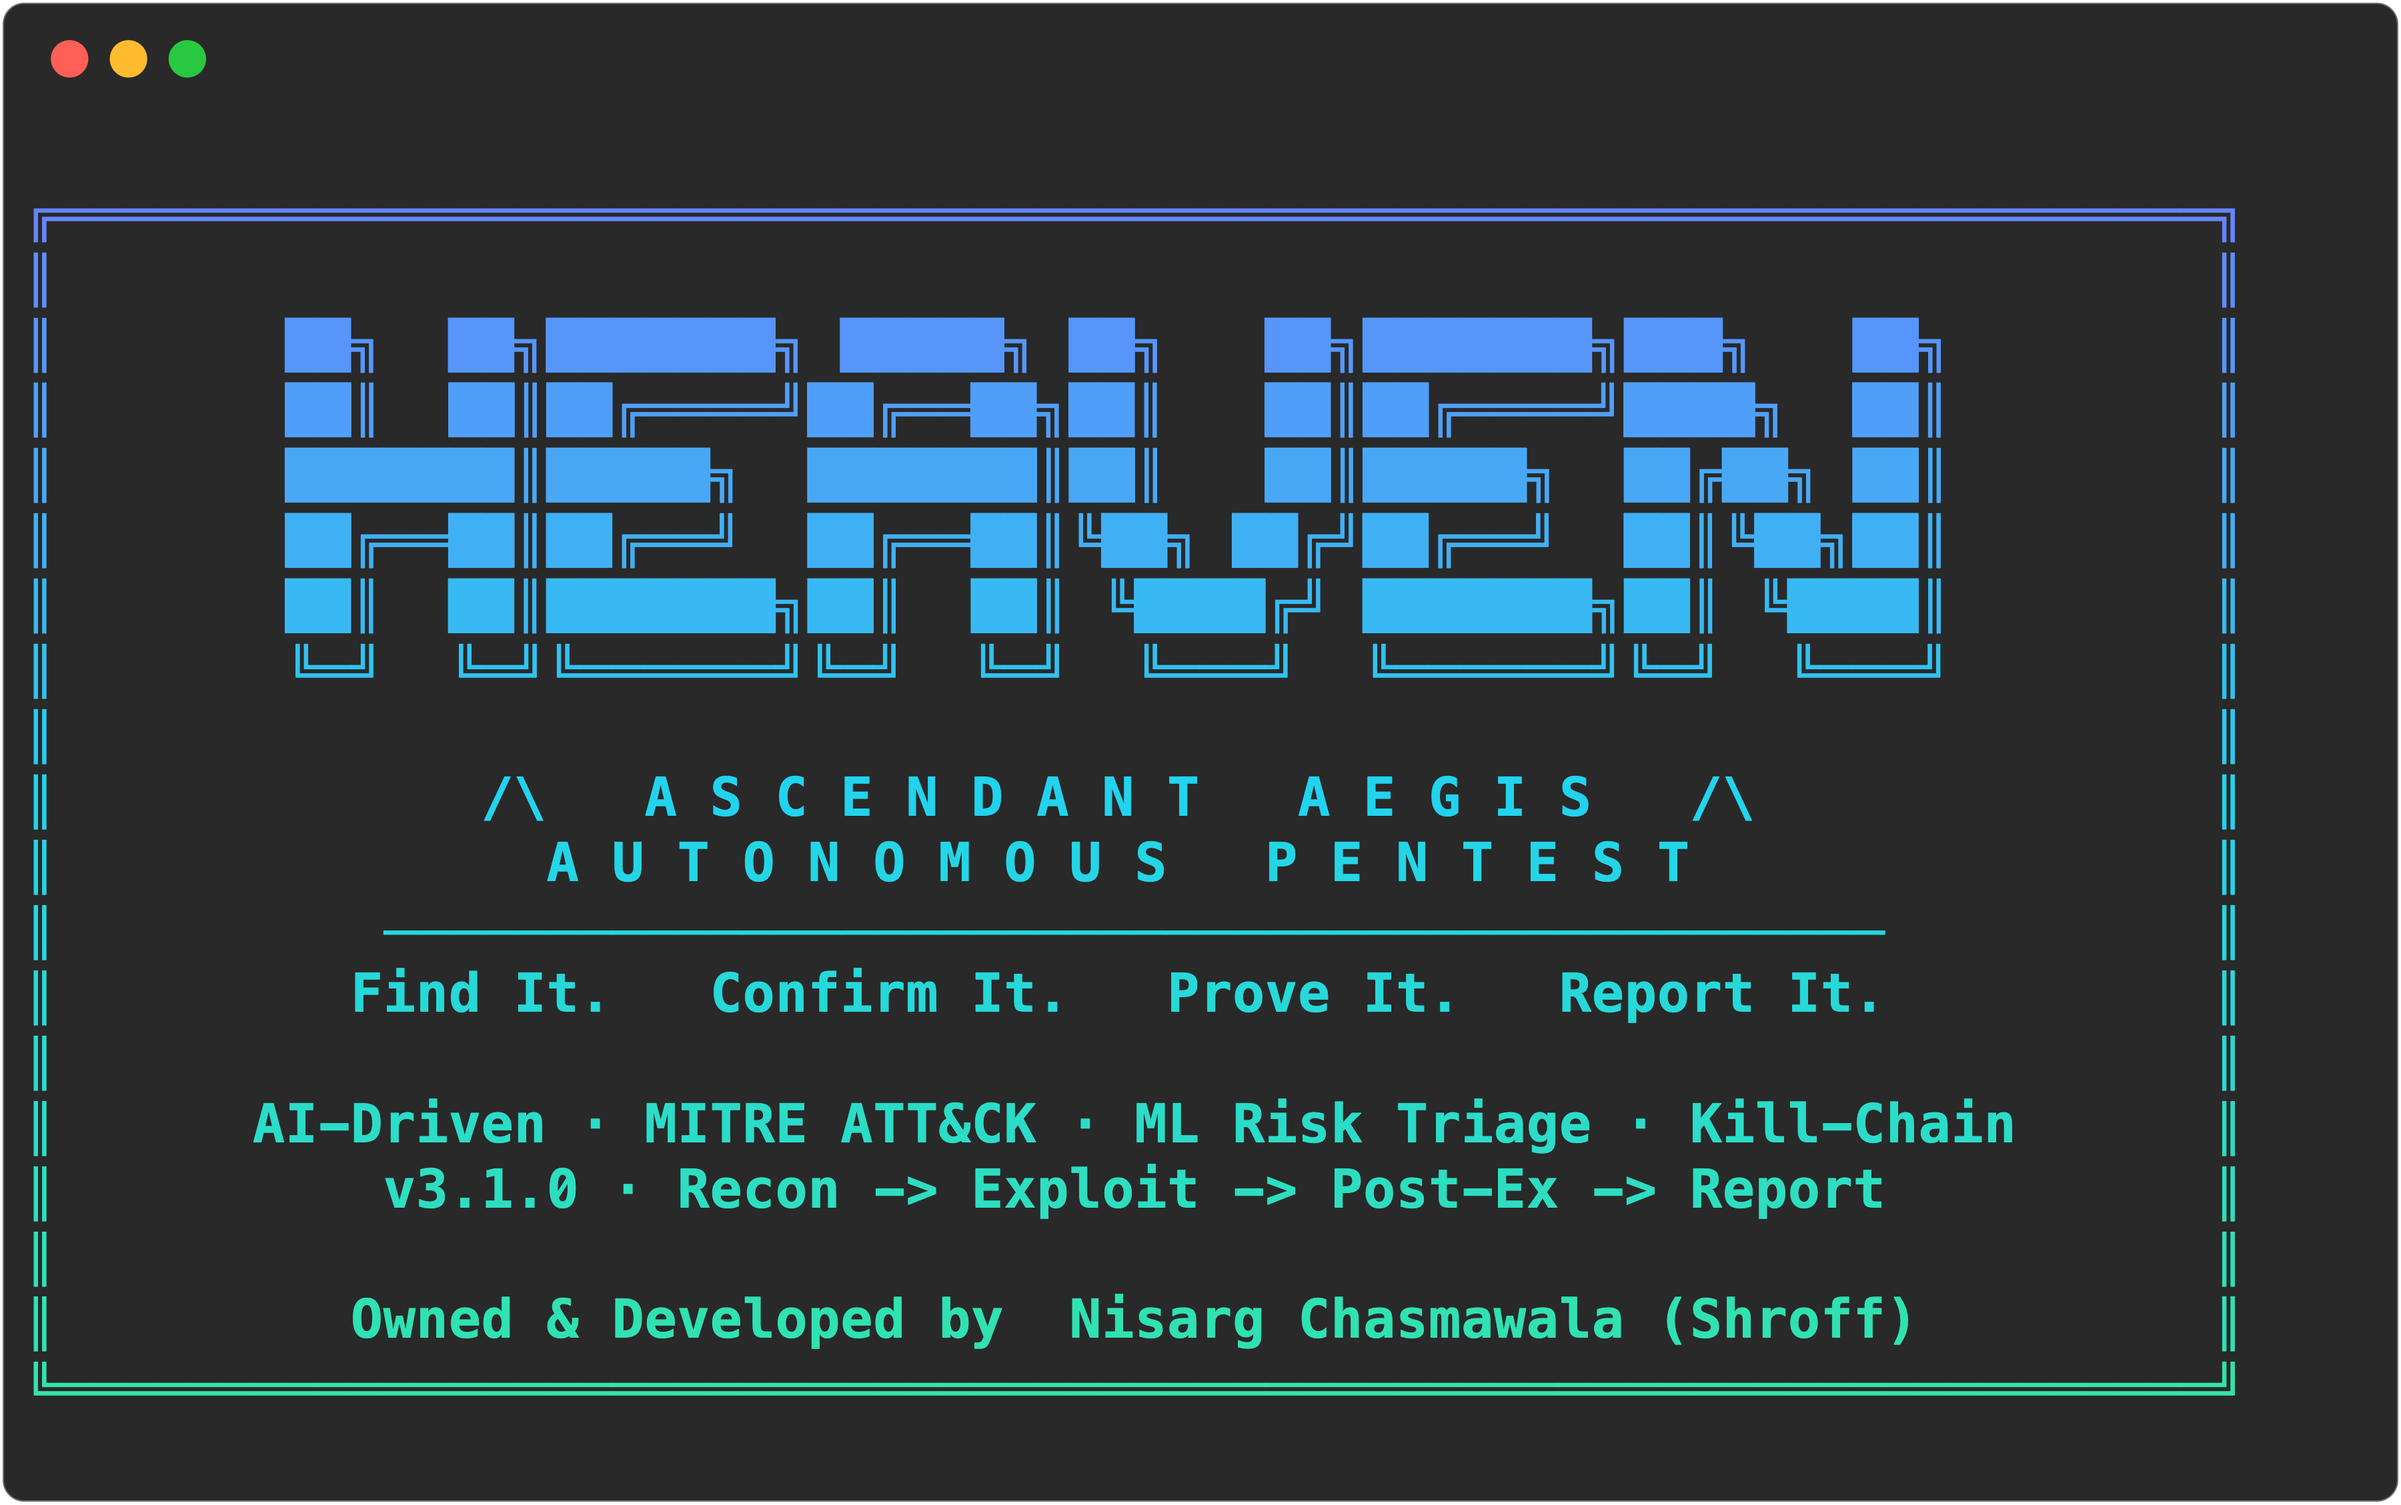
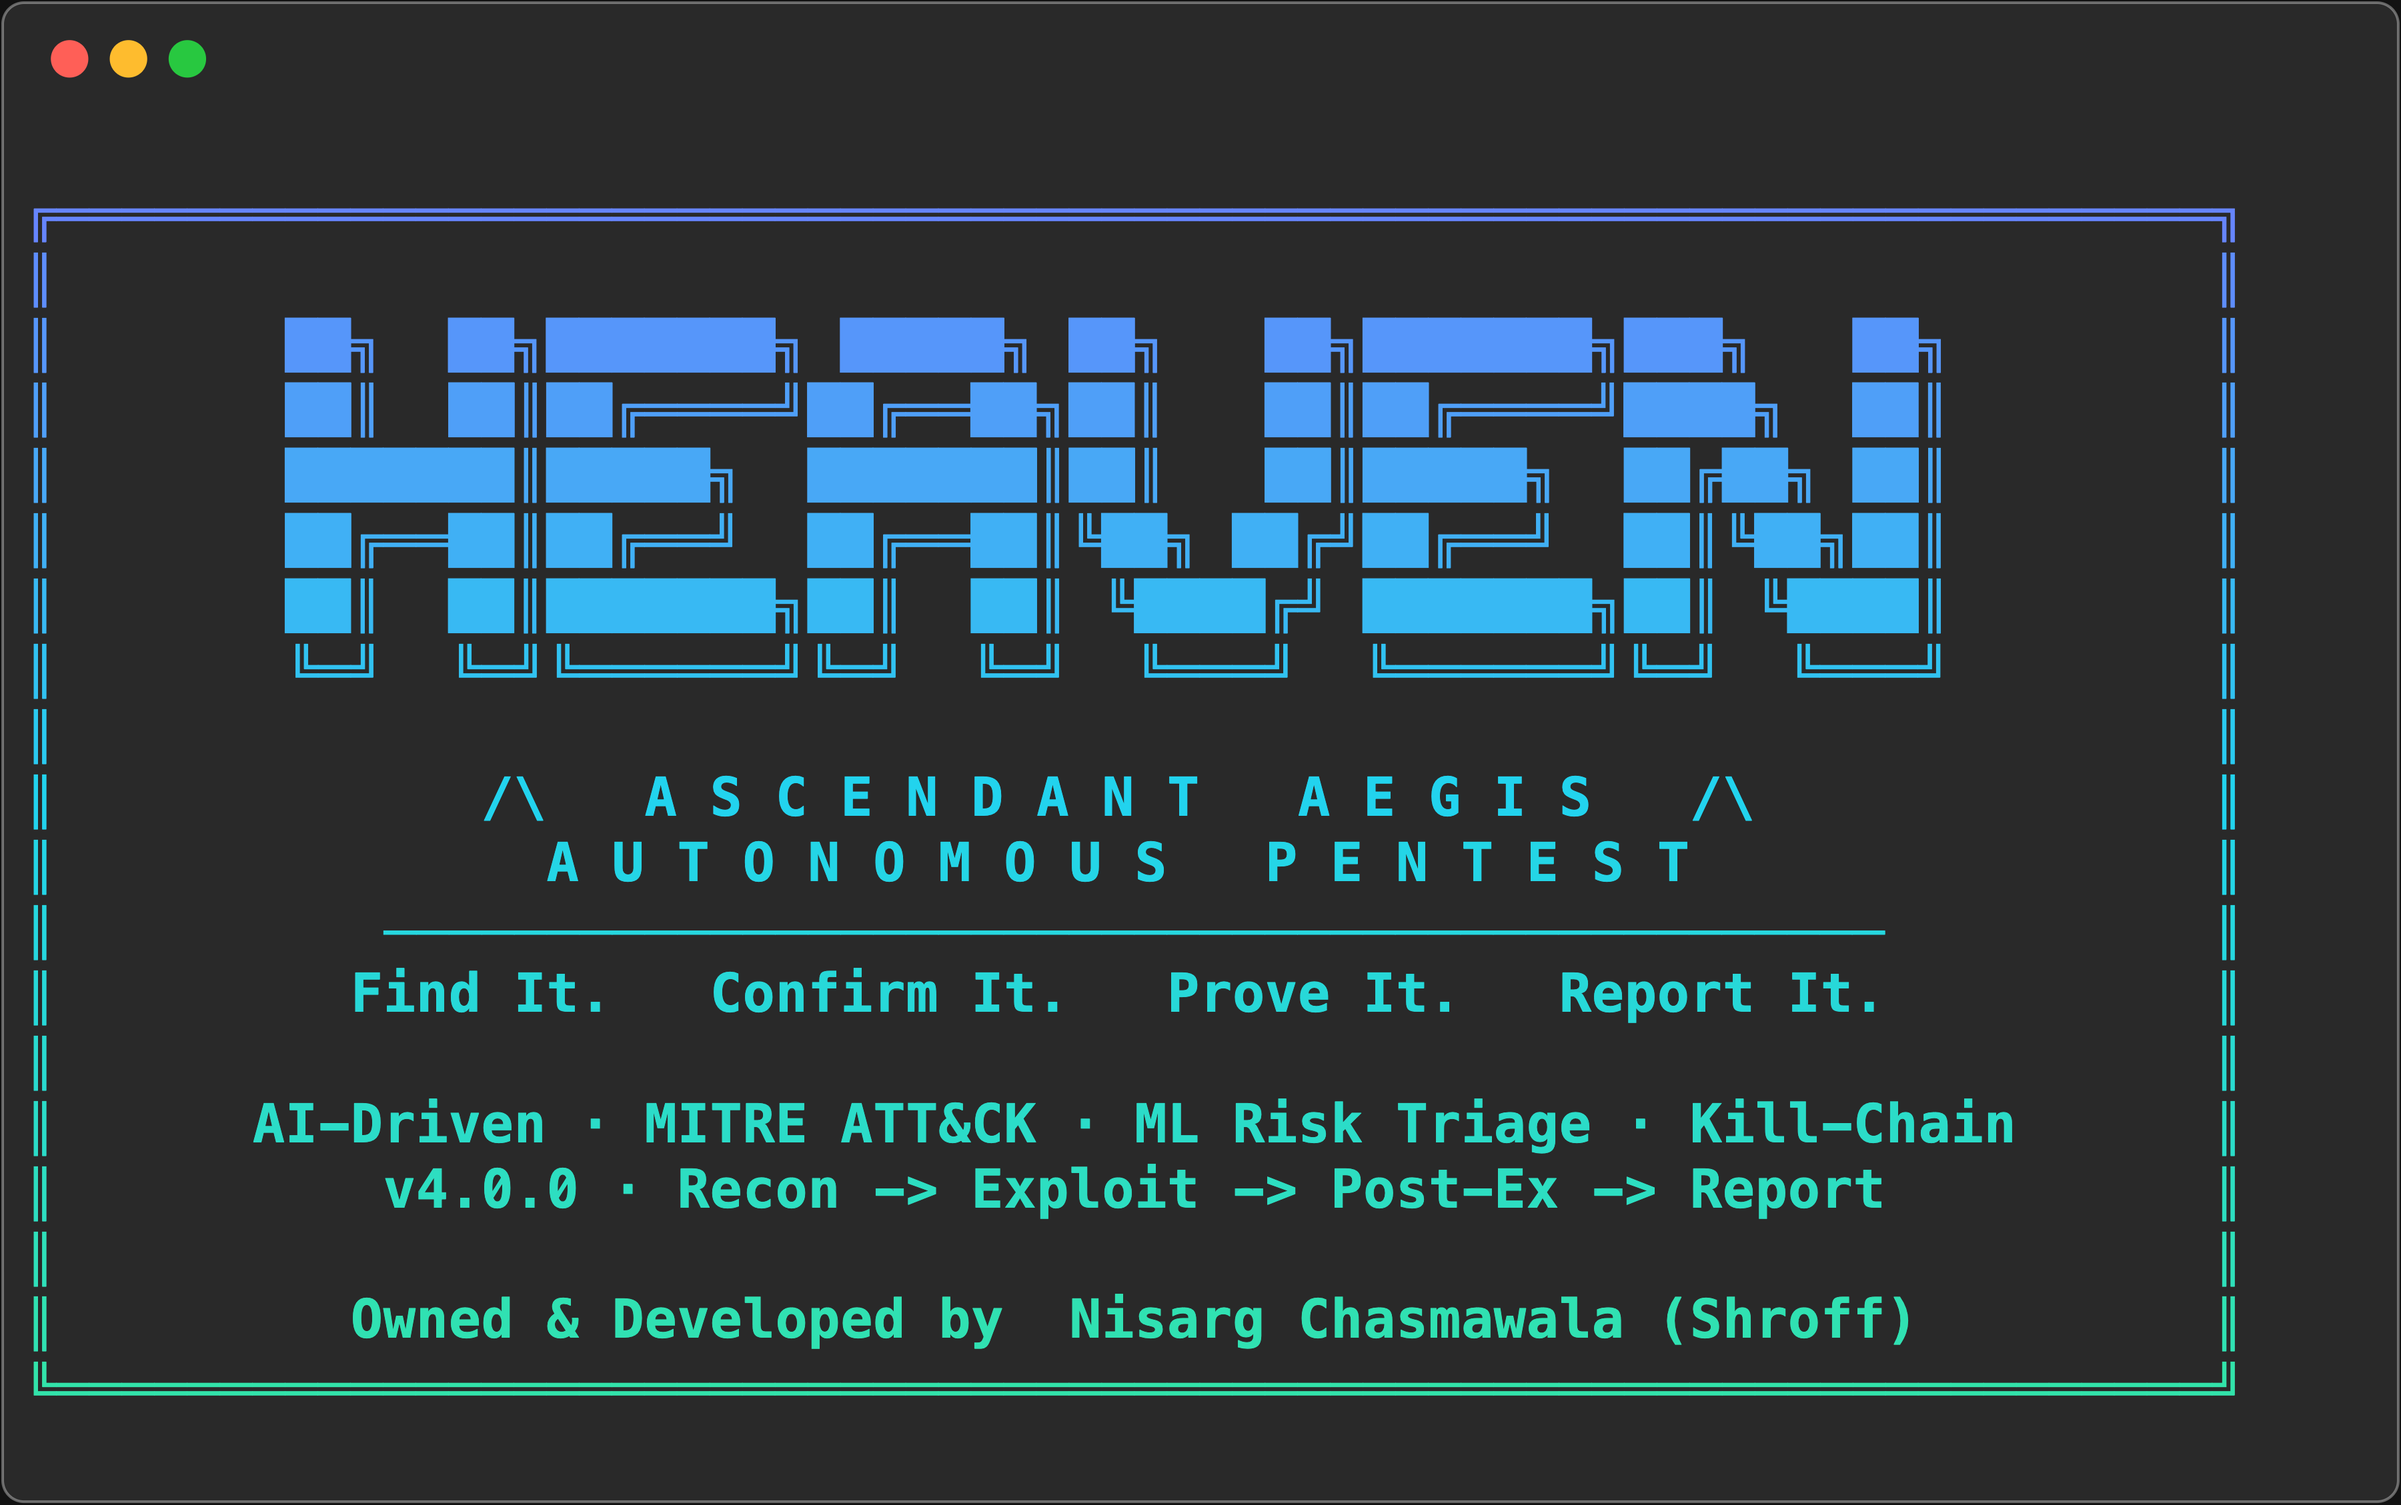
Refactor code structure for improved readability and maintainability

Changed region(s): [[0.0, 0.0, 1.0, 1.0], [0.1556, 0.775, 0.2178, 0.806], [0.0, 0.0, 0.0311, 0.031]]

diff --git a/heaven-ui/src/components/Sidebar.jsx b/heaven-ui/src/components/Sidebar.jsx
@@ -164,7 +164,7 @@ export default function Sidebar() {
           </span>
         </div>
         <div style={{ marginTop: 8, fontSize: 10.5, color: 'var(--text-2)' }}>
-          v3.1.0 · press <kbd>⌘K</kbd> for commands
+          v4.0.0 · press <kbd>⌘K</kbd> for commands
         </div>
       </div>
     </aside>

diff --git a/heaven/ml/risk_model.py b/heaven/ml/risk_model.py
@@ -91,7 +91,7 @@ class HeavenRiskModel:
         # (data/models/cvss_regressor.joblib from `heaven train-model`); the file
         # itself is never loaded directly.
         self.model_path = model_path or Path("models/risk_model_v2.joblib")
-        self.version = "3.1.0"
+        self.version = "4.0.0"
         self._is_trained = False
         self._regressor = None
         self._feature_names: list[str] = []

diff --git a/heaven/__init__.py b/heaven/__init__.py
@@ -1,7 +1,7 @@
 # HEAVEN — Autonomous Pen-Testing Framework
 # Core package initialisation
 
-__version__ = "3.1.0"
+__version__ = "4.0.0"
 __codename__ = "HEAVEN"
 __tagline__ = "Autonomous Penetration-Testing Platform"
 

diff --git a/README.md b/README.md
@@ -94,7 +94,7 @@ It runs three ways from the **same engagement dataset**:
 - **REST + WebSocket API**: 99 RBAC-protected routes for automation and integration.
 
 <div align="center">
-<img width="760" alt="HEAVEN: Autonomous Penetration Testing Platform v3.1.0" src="docs/screenshots/Heaven_Autonomous_Penetration_Testing_Platform.png" />
+<img width="760" alt="HEAVEN: Autonomous Penetration Testing Platform v4.0.0" src="docs/screenshots/Heaven_Autonomous_Penetration_Testing_Platform.png" />
 </div>
 
 ---
@@ -317,9 +317,9 @@ Prefer to do it by hand? Only the admin password is needed to start:
 # Web UI login (admin/admin on first run → forced change). Set this to skip that.
 export HEAVEN_ADMIN_PASSWORD="your-strong-password"
 
-# Optional: turn on the AI layers (Gemini has a generous free tier):
+# Optional: turn on the AI layers (Gemini has a generous free tier). The Gemini
+# SDK already ships in the base install, so a key is all you need:
 export GEMINI_API_KEY="your-gemini-key"     # from https://aistudio.google.com/apikey
-pip install -e ".[gemini]"                    # install the Gemini SDK
 ```
 
 > **No LLM key needed.** Every AI feature falls back to a deterministic
@@ -463,7 +463,7 @@ AI feature falls back to a deterministic heuristic (or pass `--no-llm`).
 62 commands. Run `heaven <command> --help` for full options.
 
 <div align="center">
-<img width="820" alt="heaven CLI dashboard: module status + live command reference (v3.1.0)" src="docs/screenshots/Heaven_cli.png" />
+<img width="820" alt="heaven CLI dashboard: module status + live command reference (v4.0.0)" src="docs/screenshots/Heaven_cli.png" />
 </div>
 
 <div align="center">

diff --git a/SECURITY.md b/SECURITY.md
@@ -112,8 +112,8 @@ For a multi-user or internet-exposed deployment, also:
 
 | Version | Supported |
 |---|---|
-| 1.0.x  | ✅ |
-| < 1.0  | ❌ please upgrade |
+| 4.0.x  | ✅ |
+| < 4.0  | ❌ please upgrade |
 
 ## Security release process
 

diff --git a/CHANGELOG.md b/CHANGELOG.md
@@ -9,6 +9,8 @@ and this project adheres to [Semantic Versioning](https://semver.org/spec/v2.0.0
 
 ## [Unreleased]
 
+## [4.0.0]: 2026-09-10
+
 ### Added
 
 - **Fragile-target pacing advisory before a fast scan of a lab host.** A
